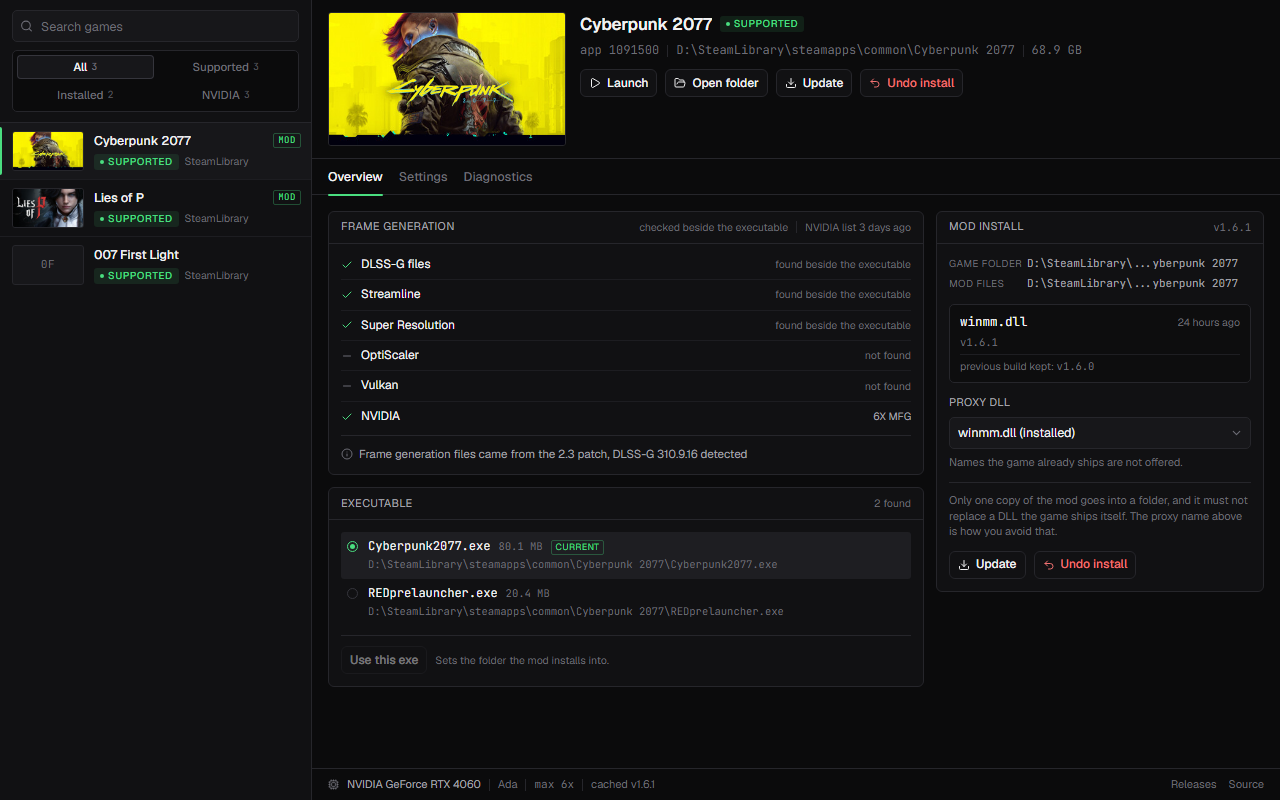
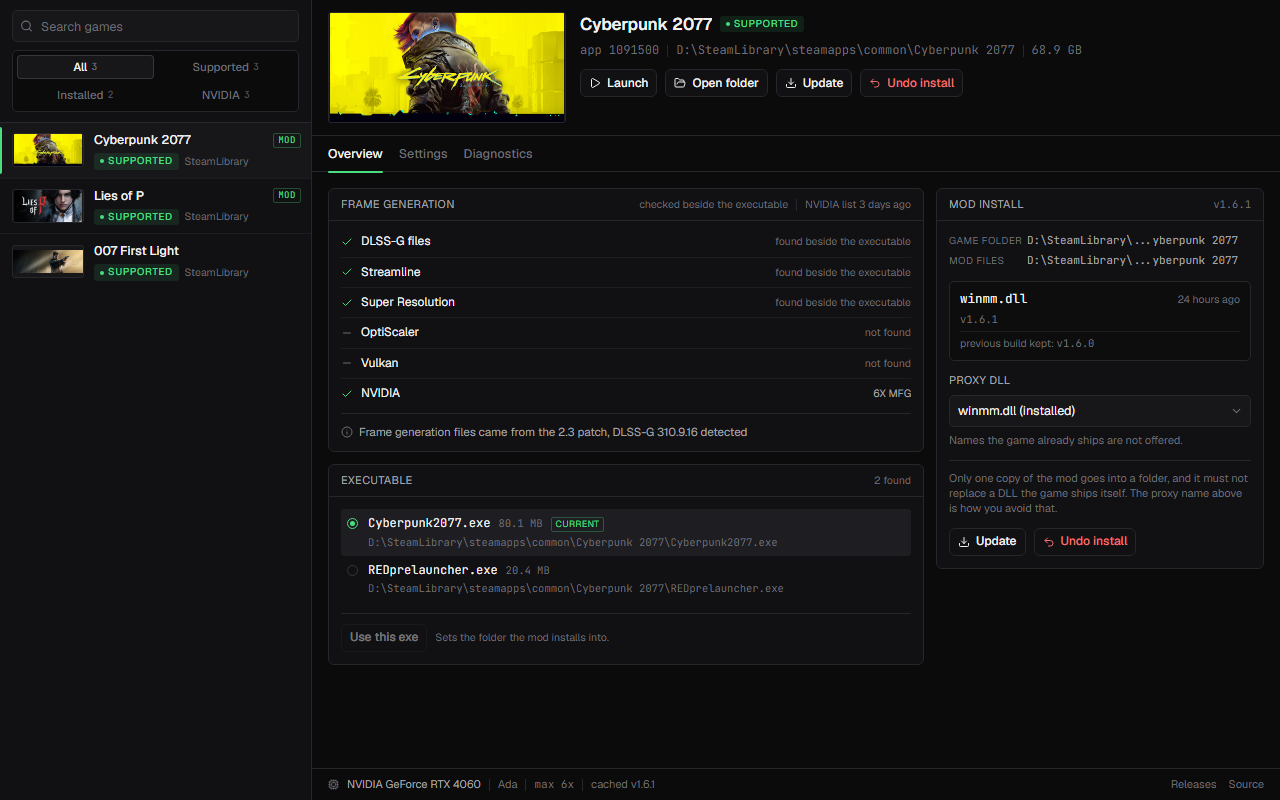
keep cover art uncropped and fall back to hero art

diff --git a/src/lib/mock.ts b/src/lib/mock.ts
@@ -66,11 +66,18 @@ interface GameSeed {
   installDir: string;
   workDir?: string;
   exeCandidates?: ExeCandidate[];
-  headerUrl?: string | null;
+  coverUrls?: string[];
   libraryPath?: string | null;
   sizeOnDisk?: number | null;
   compat?: Partial<CompatReport>;
   install?: InstallInfo | null;
+}
+
+function coverUrlsFor(appId: number | null): string[] {
+  if (appId === null) return [];
+  return ["header.jpg", "capsule_616x353.jpg", "library_hero.jpg"].map(
+    (name) => `https://cdn.akamai.steamstatic.com/steam/apps/${appId}/${name}`,
+  );
 }
 
 function makeGame(seed: GameSeed): GameEntry {
@@ -87,12 +94,7 @@ function makeGame(seed: GameSeed): GameEntry {
     exeCandidates: candidates,
     compat: { ...baseCompat, ...seed.compat },
     install: seed.install ?? null,
-    headerUrl:
-      seed.headerUrl === undefined
-        ? seed.appId === null
-          ? null
-          : `https://cdn.akamai.steamstatic.com/steam/apps/${seed.appId}/header.jpg`
-        : seed.headerUrl,
+    coverUrls: seed.coverUrls ?? coverUrlsFor(seed.appId),
     sizeOnDisk: seed.sizeOnDisk === undefined ? 74_000_000_000 : seed.sizeOnDisk,
     libraryPath: seed.libraryPath === undefined ? "D:\\SteamLibrary" : seed.libraryPath,
   };
@@ -199,7 +201,7 @@ const manualGames: GameEntry[] = [
     installDir: "E:\\Games\\Trepang2",
     libraryPath: null,
     sizeOnDisk: null,
-    headerUrl: null,
+    coverUrls: [],
     compat: { state: "likely", hasFrameGen: true, hasStreamline: false },
   }),
 ];
@@ -443,7 +445,7 @@ export const mock = {
       installDir: trimmed,
       libraryPath: null,
       sizeOnDisk: null,
-      headerUrl: null,
+      coverUrls: [],
       compat: { state: "likely", hasFrameGen: true, hasStreamline: false },
     });
     manualGames.push(entry);

diff --git a/src/components/GameArt.tsx b/src/components/GameArt.tsx
@@ -1,17 +1,24 @@
-import { useState } from "react";
+import { useEffect, useState } from "react";
 import { cn } from "../lib/cn";
 import { initials } from "../lib/format";
 
 interface GameArtProps {
-  src: string | null;
+  sources: string[];
   name: string;
   className?: string;
   labelClassName?: string;
 }
 
-export function GameArt({ src, name, className, labelClassName }: GameArtProps) {
-  const [failedSrc, setFailedSrc] = useState<string | null>(null);
-  const imageSrc = src !== null && src.length > 0 && src !== failedSrc ? src : null;
+export function GameArt({ sources, name, className, labelClassName }: GameArtProps) {
+  const [index, setIndex] = useState(0);
+  const first = sources[0] ?? "";
+
+  // the same slot is reused when another game is selected
+  useEffect(() => {
+    setIndex(0);
+  }, [first]);
+
+  const src = index < sources.length ? sources[index] : null;
 
   return (
     <div
@@ -20,7 +27,7 @@ export function GameArt({ src, name, className, labelClassName }: GameArtProps) 
         className,
       )}
     >
-      {imageSrc === null ? (
+      {src === null ? (
         <div
           aria-hidden="true"
           className={cn(
@@ -32,12 +39,12 @@ export function GameArt({ src, name, className, labelClassName }: GameArtProps) 
         </div>
       ) : (
         <img
-          src={imageSrc}
+          src={src}
           alt=""
           draggable={false}
           loading="lazy"
-          onError={() => setFailedSrc(imageSrc)}
-          className="h-full w-full object-cover"
+          onError={() => setIndex((current) => current + 1)}
+          className="h-full w-full object-contain"
         />
       )}
     </div>

diff --git a/src/components/GameHeader.tsx b/src/components/GameHeader.tsx
@@ -27,9 +27,9 @@ export function GameHeader({
     <header className="shrink-0 border-b border-line px-4 pt-3 pb-3">
       <div className="flex items-start gap-3.5">
         <GameArt
-          src={game.headerUrl}
+          sources={game.coverUrls}
           name={game.name}
-          className="hidden aspect-video w-[176px] @md:block @3xl:w-[238px]"
+          className="hidden aspect-[460/215] w-[176px] @md:block @3xl:w-[238px]"
           labelClassName="text-[19px]"
         />
 

diff --git a/src/components/GameRow.tsx b/src/components/GameRow.tsx
@@ -25,9 +25,9 @@ export function GameRow({ game, selected, onSelect }: GameRowProps) {
         <span className="absolute inset-y-1 left-0 w-[2px] rounded-r-full bg-accent" />
       )}
       <GameArt
-        src={game.headerUrl}
+        sources={game.coverUrls}
         name={game.name}
-        className="h-10 w-[72px]"
+        className="aspect-[460/215] w-[72px]"
         labelClassName="text-[11px]"
       />
       <span className="min-w-0 flex-1">

diff --git a/vite.config.ts b/vite.config.ts
@@ -12,7 +12,7 @@ export default defineConfig({
     strictPort: true,
     host: host || false,
     hmr: host ? { protocol: "ws", host, port: 1421 } : undefined,
-    watch: { ignored: ["**/src-tauri/**", "**/_scratch/**"] },
+    watch: { ignored: ["**/src-tauri/**", "**/_scratch/**", "**/*.tmpdir/**", "**/*.tmp"] },
   },
   envPrefix: ["VITE_", "TAURI_ENV_*"],
   build: {

diff --git a/src/lib/types.ts b/src/lib/types.ts
@@ -60,7 +60,7 @@ export interface GameEntry {
   exeCandidates: ExeCandidate[];
   compat: CompatReport;
   install: InstallInfo | null;
-  headerUrl: string | null;
+  coverUrls: string[];
   sizeOnDisk: number | null;
   libraryPath: string | null;
 }

diff --git a/src-tauri/src/commands.rs b/src-tauri/src/commands.rs
@@ -22,8 +22,16 @@ fn game_id_for(install_dir: &Path) -> String {
     format!("game:{}", normalize_path(&install_dir.to_string_lossy()))
 }
 
-fn header_url(app_id: Option<u32>) -> Option<String> {
-    app_id.map(|id| format!("https://cdn.akamai.steamstatic.com/steam/apps/{id}/header.jpg"))
+// Steam ships a 460x215 header for most titles, a store capsule for some and only
+// hero art for the newest ones. The UI walks this list until one loads.
+fn cover_urls(app_id: Option<u32>) -> Vec<String> {
+    let Some(id) = app_id else {
+        return Vec::new();
+    };
+    ["header.jpg", "capsule_616x353.jpg", "library_hero.jpg"]
+        .iter()
+        .map(|name| format!("https://cdn.akamai.steamstatic.com/steam/apps/{id}/{name}"))
+        .collect()
 }
 
 fn folder_name(path: &Path) -> String {
@@ -96,7 +104,7 @@ fn make_entry(
             .collect(),
         compat: report,
         install: stored.and_then(StoredGame::install_info),
-        header_url: header_url(app_id),
+        cover_urls: cover_urls(app_id),
         size_on_disk: size,
         library_path: library,
     }

diff --git a/src-tauri/src/model.rs b/src-tauri/src/model.rs
@@ -65,7 +65,9 @@ pub struct GameEntry {
     pub exe_candidates: Vec<ExeCandidate>,
     pub compat: CompatReport,
     pub install: Option<InstallInfo>,
-    pub header_url: Option<String>,
+    // Cover art candidates in the order the UI should try them. Newer titles often
+    // have no header.jpg, only the hero art.
+    pub cover_urls: Vec<String>,
     pub size_on_disk: Option<u64>,
     pub library_path: Option<String>,
 }
